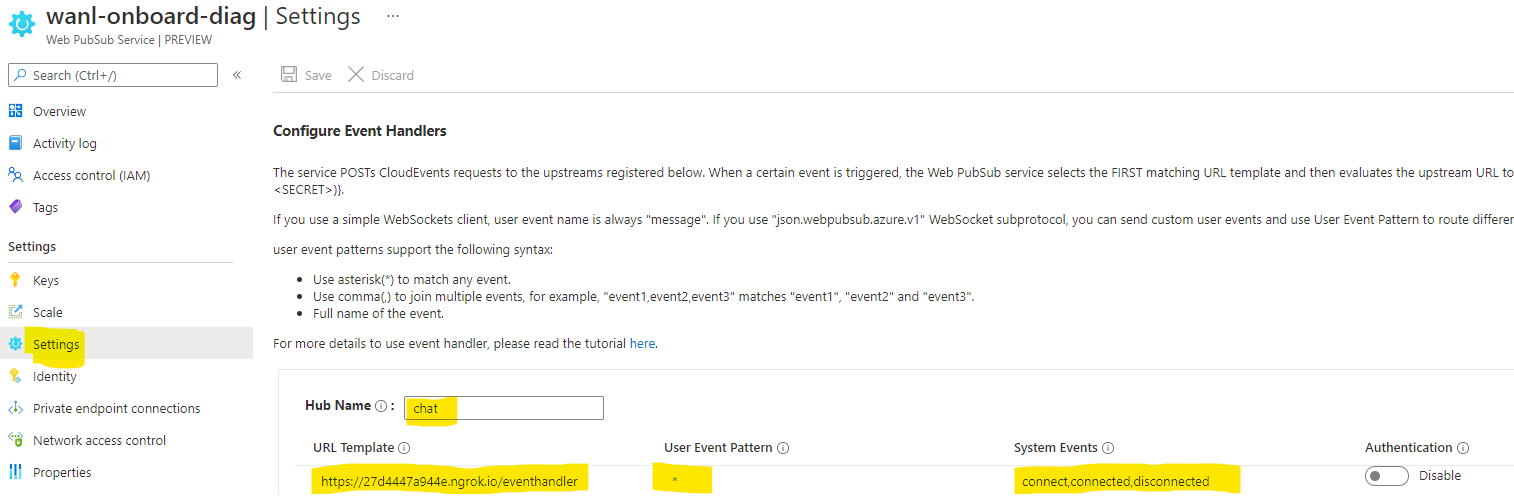
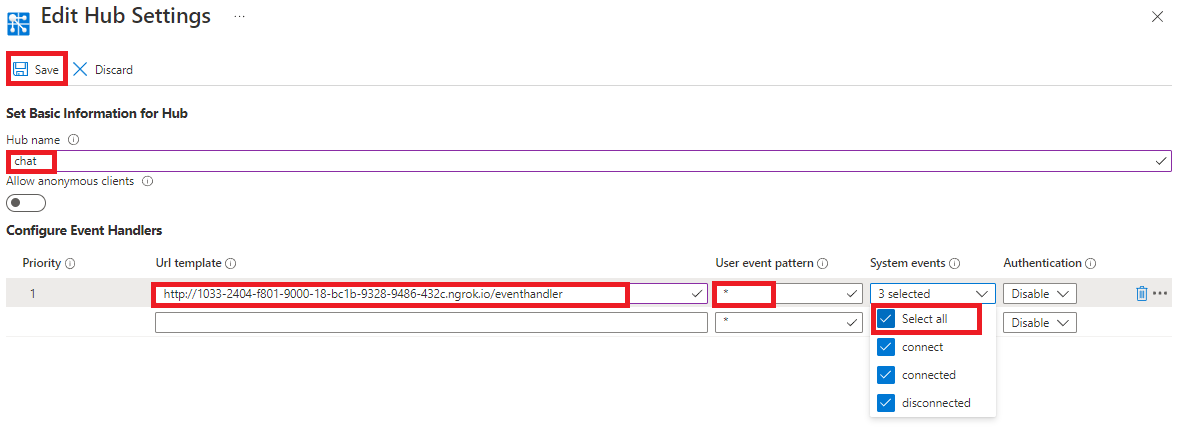
Update event handler image (#298)
* Update event handler image

diff --git a/samples/java/chatapp/Readme.md b/samples/java/chatapp/Readme.md
@@ -15,11 +15,11 @@ Run the script `ngrok http 8080`, then copy the URL above the red line.
 ## Setup event handler settings
 
 1. Navigate to `settings` in portal.
-2. Make a new hub setting for `chat`.
-3. Fill in the URL copied from the previous step to `URL template`.
-4. Fill in `*` to `User Event Pattern` and select all the system events.
-5. Click `Save` button to update the settings, wait until the settings are updated successfully.
-![event handler settings](../../../docs/images/eventhandler-settings-sample.png)
+1. Click **Add** to add setting for hub `chat`.
+1. Fill in the URL copied from the previous step to `URL template`.
+1. Set URL Pattern to `https://<domain-name>.ngrok.io/eventhandler` and check `connected` in System Event Pattern, click "Save".
+1. Click `Save` button to update the settings, wait until the settings are updated successfully.
+    ![Event Handler](./../../../docs/images/portal_event_handler.png)
 
 ## Start server
 

diff --git a/samples/java/chatapp-aad/Readme.md b/samples/java/chatapp-aad/Readme.md
@@ -56,8 +56,8 @@ Copy the URL `http://<name>.ngrok.io` in one of the **Forwarding** row.
 3. Click **Add**.
 3. Enter `chat` as **Hub name**.
 4. Set **URL template** to `https://<name>.ngrok.io/eventhandler`
-5. Click **System events**, then select **connected** to let AWPS send connected events.
-   ![Screenshot of Edit Hub Settings](./media/edit-hub-settings.png)
+5. Click **System events**, then select **connected** to let the service sends `connected` events to your upstream server.
+    ![Event Handler](./../../../docs/images/portal_event_handler.png)
 1. Click **Save** to confirm the change.
 
 ### 5. Configure Role-Based Access Control (RBAC)

diff --git a/samples/javascript/chatapp-aad/Readme.md b/samples/javascript/chatapp-aad/Readme.md
@@ -52,8 +52,8 @@ Copy the URL `http://<name>.ngrok.io` in one of the **Forwarding** row.
 3. Click **Add**.
 3. Enter `chat` as **Hub name**.
 4. Set **URL template** to `https://<name>.ngrok.io/eventhandler`
-5. Click **System events**, then select **connected** to let AWPS send connected events.
-   ![Screenshot of Edit Hub Settings](./media/edit-hub-settings.png)
+5. Click **System events**, then select **connected** to let the service sends `connected` events to your upstream server.
+    ![Event Handler](./../../../docs/images/portal_event_handler.png)
 1. Click **Save** to confirm the change.
 
 ### 5. Configure Role-Based Access Control (RBAC)

diff --git a/samples/python/chatapp-aad/Readme.md b/samples/python/chatapp-aad/Readme.md
@@ -59,8 +59,8 @@ Copy the URL `http://<name>.ngrok.io` in one of the **Forwarding** row.
 3. Click **Add**.
 3. Enter `chat` as **Hub name**.
 4. Set **URL template** to `https://<name>.ngrok.io/eventhandler`
-5. Click **System events**, then select **connected** to let AWPS send connected events.
-   ![Screenshot of Edit Hub Settings](./media/edit-hub-settings.png)
+5. Click **System events**, then select **connected** to let the service send `connected` events to the upstream server.
+    ![Event Handler](./../../../docs/images/portal_event_handler.png)
 1. Click **Save** to confirm the change.
 
 ### 5. Configure Role-Based Access Control (RBAC)

diff --git a/samples/javascript/chatapp/Readme.md b/samples/javascript/chatapp/Readme.md
@@ -39,9 +39,9 @@ Event handler can be set from portal or through Azure CLI, here contains the det
 
 Go to the **Settings** tab to configure the event handler for this `chat` hub:
 
-1. Type the hub name (chat) and click "Add".
+1. Click "Add" to add settings for hub `chat`.
 
-2. Set URL Pattern to `https://<domain-name>.ngrok.io/eventhandler/{event}` and check `connected` in System Event Pattern, click "Save".
+2. Set URL Pattern to `https://<domain-name>.ngrok.io/eventhandler` and check `connected` in System Event Pattern, click "Save".
 
     ![Event Handler](./../../../docs/images/portal_event_handler.png)
 

diff --git a/samples/csharp/chatapp/Readme.md b/samples/csharp/chatapp/Readme.md
@@ -36,9 +36,9 @@ Event handler can be set from portal or through Azure CLI, here contains the det
 
 Go to the **Settings** tab to configure the event handler for this `chat` hub:
 
-1. Type the hub name (chat) and click "Add".
+1. Click **Add** to add setting for hub `chat`.
 
-2. Set URL Pattern to `https://<domain-name>.ngrok.io/eventhandler/{event}` and check `connected` in System Event Pattern, click "Save".
+2. Set Url template to `https://<domain-name>.ngrok.io/eventhandler` and check `connected` system event, click "Save".
 
     ![Event Handler](./../../../docs/images/portal_event_handler.png)
 
